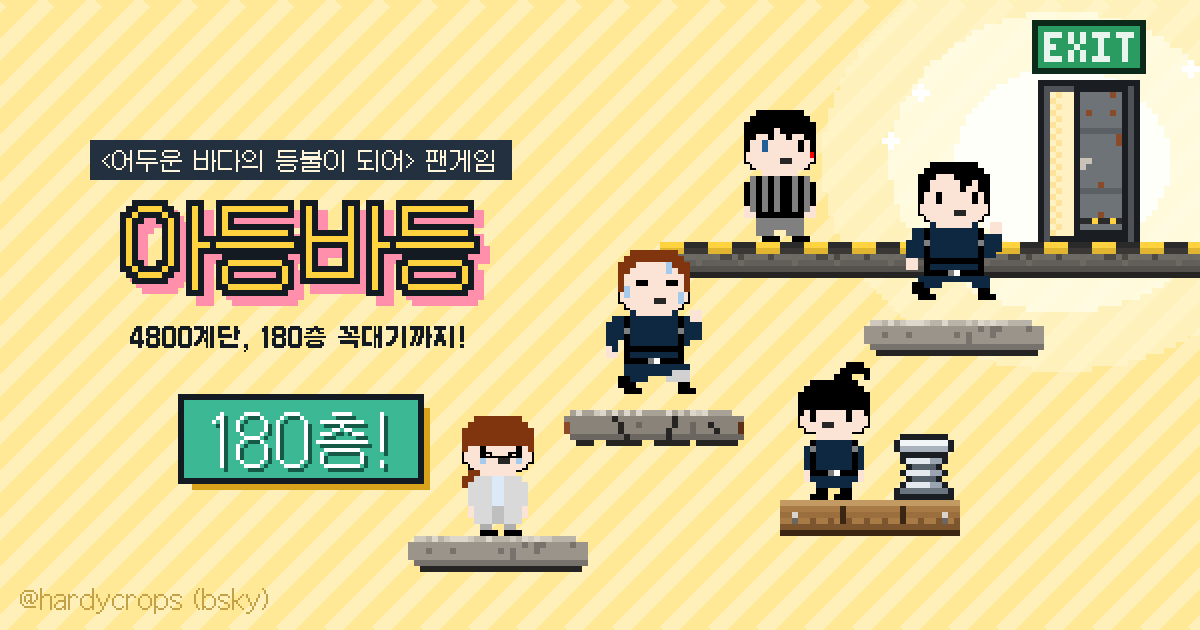
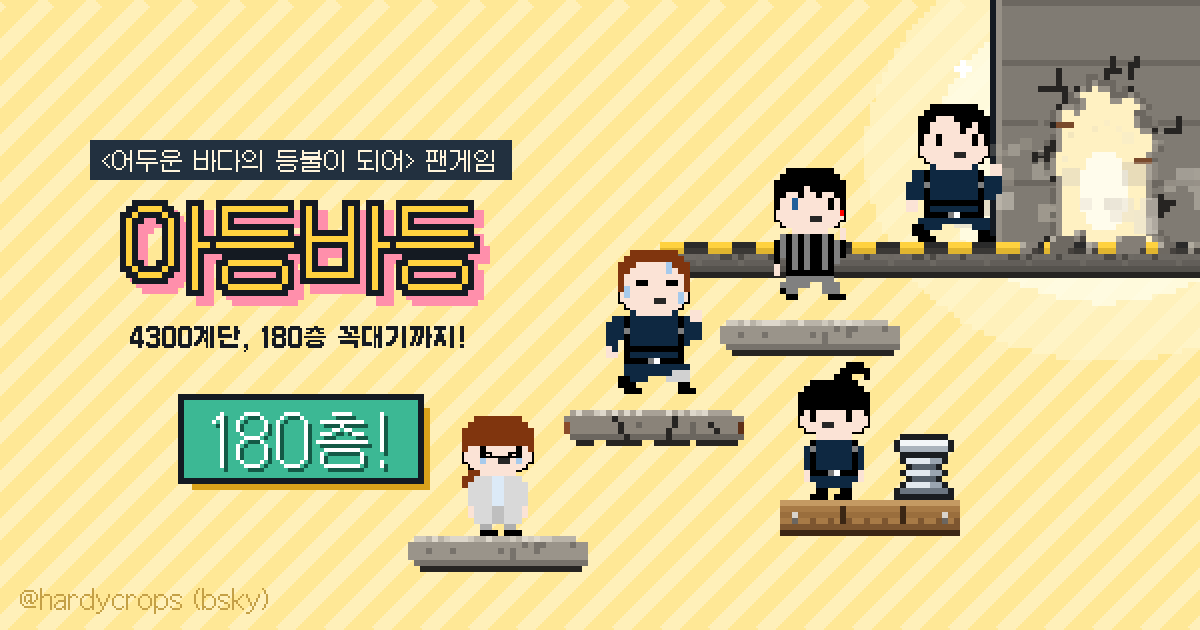
출구,계단 수정
출구,계단 수정

Changed region(s): [[0.5858, 0.0, 1.0, 0.6032], [0.9558, 0.5429, 0.9867, 0.573]]

diff --git a/gameLogic.js b/gameLogic.js
@@ -42,7 +42,7 @@ const CREDIT_URL = 'https://bsky.app/profile/hardycrops.bsky.social';
 /* ─── 게임 설정 ─── */
 const CONFIG = {
   // 규칙
-  GOAL_STAIRS: 4800,     // 원작 계단 수
+  GOAL_STAIRS: 4300,     // 원작 계단 수
   GOAL_FLOOR: 180,       // 원작 층수 (계단 수를 환산해서 표시)
   DIFFICULTY: 3,         // 기본 난이도 1~5 (설정 화면에서 선택 가능, 아래 DIFFICULTY_PRESETS)
 
@@ -88,8 +88,8 @@ const CONFIG = {
   TOAST_MS: 2500,
 
   // 꼭대기 문 (닿으면 결과 표시)
-  DOOR_W: 40.8,          // 이미지 17×27px
-  DOOR_H: 64.8,
+  DOOR_W: 62.4,          // 꼭대기 출구 = 신해량이 주먹으로 뚫은 가벽 구멍 (이미지 26×32px, 맨 아랫줄은 빈칸)
+  DOOR_H: 74.4,
   PHOTO_SIZE: 248,       // 결과 폴라로이드 사진 크기(px)
   PHOTO_VIEW_W: 400,     // 사진에 담길 최대 가로 범위(게임 좌표). 이보다 넓게는 안 찍힘 (400 = 게임 영역 전체 폭)
   WALK_FRAME_MS: 120,    // 걷기 프레임 전환 간격
@@ -111,12 +111,14 @@ const CONFIG = {
 //   PX_PER_STAIR  1계단 높이(클수록 꼭대기까지 멀어짐). 보통 4.5 ≈ 클리어 2분 30초 (이전 6 ≈ 3분 20초)
 //   GAP_MIN/MAX   계단 사이 세로 간격 (GAP_MAX는 187 미만 유지)
 //   PLAT_W        계단 너비 (이미지 30px = 72)
+// 계단 수를 4800 → 4300으로 바꾸면서 1계단 높이를 그만큼 키움 → 꼭대기 높이(GOAL_Y)·플레이 시간·난이도 그대로
+const STAIR_SCALE = 4800 / 4300;
 const DIFFICULTY_PRESETS = {
-  1: { PX_PER_STAIR: 3.75, GAP_MIN: [30, 55], GAP_MAX: [90, 125], MOVING_CHANCE: [0.03, 0.15], CRUMBLE_CHANCE: [0.05, 0.15], SPRING_CHANCE: 0.10, MOVING_SPEED: [50, 120], PLAT_W: [72, 72] },
-  2: { PX_PER_STAIR: 3.75, GAP_MIN: [30, 65], GAP_MAX: [90, 140], MOVING_CHANCE: [0.03, 0.20], CRUMBLE_CHANCE: [0.05, 0.20], SPRING_CHANCE: 0.10, MOVING_SPEED: [50, 120], PLAT_W: [72, 72] },
-  3: { PX_PER_STAIR: 4.5, GAP_MIN: [35, 75], GAP_MAX: [95, 155], MOVING_CHANCE: [0.05, 0.28], CRUMBLE_CHANCE: [0.08, 0.28], SPRING_CHANCE: 0.07, MOVING_SPEED: [60, 150], PLAT_W: [72, 57.6] },
-  4: { PX_PER_STAIR: 5.25, GAP_MIN: [40, 85], GAP_MAX: [100, 165], MOVING_CHANCE: [0.05, 0.32], CRUMBLE_CHANCE: [0.10, 0.35], SPRING_CHANCE: 0.05, MOVING_SPEED: [70, 170], PLAT_W: [67.2, 52.8] },
-  5: { PX_PER_STAIR: 6, GAP_MIN: [45, 95], GAP_MAX: [110, 172], MOVING_CHANCE: [0.06, 0.35], CRUMBLE_CHANCE: [0.12, 0.40], SPRING_CHANCE: 0.04, MOVING_SPEED: [80, 190], PLAT_W: [62.4, 43.2] },
+  1: { PX_PER_STAIR: 3.75 * STAIR_SCALE, GAP_MIN: [30, 55], GAP_MAX: [90, 125], MOVING_CHANCE: [0.03, 0.15], CRUMBLE_CHANCE: [0.05, 0.15], SPRING_CHANCE: 0.10, MOVING_SPEED: [50, 120], PLAT_W: [72, 72] },
+  2: { PX_PER_STAIR: 3.75 * STAIR_SCALE, GAP_MIN: [30, 65], GAP_MAX: [90, 140], MOVING_CHANCE: [0.03, 0.20], CRUMBLE_CHANCE: [0.05, 0.20], SPRING_CHANCE: 0.10, MOVING_SPEED: [50, 120], PLAT_W: [72, 72] },
+  3: { PX_PER_STAIR: 4.5 * STAIR_SCALE, GAP_MIN: [35, 75], GAP_MAX: [95, 155], MOVING_CHANCE: [0.05, 0.28], CRUMBLE_CHANCE: [0.08, 0.28], SPRING_CHANCE: 0.07, MOVING_SPEED: [60, 150], PLAT_W: [72, 57.6] },
+  4: { PX_PER_STAIR: 5.25 * STAIR_SCALE, GAP_MIN: [40, 85], GAP_MAX: [100, 165], MOVING_CHANCE: [0.05, 0.32], CRUMBLE_CHANCE: [0.10, 0.35], SPRING_CHANCE: 0.05, MOVING_SPEED: [70, 170], PLAT_W: [67.2, 52.8] },
+  5: { PX_PER_STAIR: 6 * STAIR_SCALE, GAP_MIN: [45, 95], GAP_MAX: [110, 172], MOVING_CHANCE: [0.06, 0.35], CRUMBLE_CHANCE: [0.12, 0.40], SPRING_CHANCE: 0.04, MOVING_SPEED: [80, 190], PLAT_W: [62.4, 43.2] },
 };
 // 6: if 모드 (STAGE 2) — 지옥과 같은 값, 일반 계단 대신 무너지는 계단 (움직이는 계단 / 무너지는 계단만)
 //    움직이는 계단은 세 번 밟으면 부러짐 (CONFIG.MOVING_HITS), 무너지는 계단에도 스프링이 붙음
@@ -149,10 +151,10 @@ applyDifficulty(CONFIG.DIFFICULTY);
 
 /* ─── 개발용 테스트 옵션 ─── */
 // 로컬(Live Server 등)에서만 동작. GitHub Pages 배포 주소에서는 무시됨
-//   ?start=4750   → 4750계단 높이에서 시작
+//   ?start=4250   → 4250계단 높이에서 시작
 //   ?god=1        → 아래로 떨어져도 죽지 않고 튀어오름
 //   ?unlock=1     → 잠긴 스테이지 전부 열기
-//   예) http://127.0.0.1:5500/index.html?start=4750&god=1&unlock=1
+//   예) http://127.0.0.1:5500/index.html?start=4250&god=1&unlock=1
 const DEV = (() => {
   const local = ['localhost', '127.0.0.1', ''].includes(location.hostname);
   const q = new URLSearchParams(location.search);
@@ -218,6 +220,7 @@ const IMG = {};
   'wall', 'wall_crack', 'wall_rebar', 'prop_stain', 'prop_crack',
   'stair_normal', 'stair_moving', 'stair_crumble', 'floor_tile', 'goal_tile',
   'spring', 'spring_on', 'door_frame', 'door_leaf', 'exit_sign', 'hydrant_door', 'hydrant_leaf',
+  'hole_back', 'hole_rubble', 'hole_cracked',
 ].forEach(name => { IMG[name] = loadImage(`images/${name}.png`); });
 
 CHARACTERS.forEach(ch => {
@@ -336,7 +339,7 @@ function stairsOf(y) {
   return Math.min(CONFIG.GOAL_STAIRS, Math.max(0, Math.floor(y / CONFIG.PX_PER_STAIR)));
 }
 
-/** 계단 수 → 원작 층수 환산 (0계단 = 1층, 4800계단 = 180층) */
+/** 계단 수 → 원작 층수 환산 (0계단 = 1층, 4300계단 = 180층) */
 function floorOf(stairs) {
   return Math.max(1, Math.ceil(stairs * CONFIG.GOAL_FLOOR / CONFIG.GOAL_STAIRS));
 }
@@ -605,6 +608,8 @@ function resetGame(fixedLayout = false) {
   state.exitT = 0;
   state.cleared = false;
   state.celebrate = false;
+  state.wallBrokenT = -1;  // 가벽이 뚫린 시각 (-1 = 아직 금만 간 상태)
+  state.shakeT = -1e9;
   state.rockets = [];
   generatePlatforms();
   updateHUD();
@@ -776,6 +781,26 @@ function spawnConfetti(x, y) {
   }
 }
 
+/** 가벽 구멍 먼지: 꼭대기가 화면에 보이는 동안 구멍 아래에서 계속 자욱하게 피어오름 */
+function spawnHoleDust() {
+  if (state.wallBrokenT < 0 || state.now < (state.holeDustT || 0) || state.particles.length > 500) return;
+  const goal = state.platforms.find(pl => pl.type === 'goal');
+  if (!goal) return;
+  const ly = toLY(goal.y);
+  if (ly < -40 || ly > viewLH + 120) return;
+  state.holeDustT = state.now + 120;
+  const colors = ['#e6e0d4', '#d2ccbf', '#bdb6a9'];
+  for (let i = 0; i < 2; i++) {
+    state.particles.push({
+      x: goal.doorX + Math.random() * (CONFIG.DOOR_W + 16) - 8,
+      y: goal.y + Math.random() * 18,
+      vx: (Math.random() - 0.5) * 36, vy: 8 + Math.random() * 26,
+      g: 3, drag: 0.6, life: 0, max: 1.4 + Math.random(), size: i ? 7.2 : 9.6,
+      color: colors[Math.floor(Math.random() * colors.length)], a: 0.5,
+    });
+  }
+}
+
 function updateParticles(dt) {
   for (const pt of state.particles) {
     pt.life += dt;
@@ -818,10 +843,9 @@ function update(dt) {
     }
     const doneT = state.exitT + state.followers.length * CONFIG.FOLLOW_DELAY_MS + CONFIG.EXIT_SLIDE_MS + 300;
     if (state.phase === 'playing' && state.now >= doneT) endGame('clear');
-    if (state.celebrate) {  // 문 들어가는 중 / 결과 화면 뒤에서도 계속 터짐
-      updateCelebration(dt);
-      updateParticles(dt);
-    }
+    if (state.celebrate) updateCelebration(dt);  // 구멍 들어가는 중 / 결과 화면 뒤에서도 계속 터짐
+    spawnHoleDust();
+    updateParticles(dt);  // 먼지도 계속 피어오름
     updateHUD();
     return;
   }
@@ -922,6 +946,7 @@ function update(dt) {
   while (state.history.length > 2 && state.history[1].t < keepFrom) state.history.shift();
 
   updateCelebration(dt);
+  spawnHoleDust();
   updateParticles(dt);
 
   // 지나간 계단 정리 + 새 계단 생성
@@ -1056,7 +1081,7 @@ function drawHydrant() {
 function drawParticles() {
   for (const pt of state.particles) {
     const k = pt.life / pt.max;
-    ctx.globalAlpha = pt.drag ? Math.min(1, 1.6 * (1 - k)) : 1 - k;
+    ctx.globalAlpha = (pt.a ?? 1) * (pt.drag ? Math.min(1, 1.6 * (1 - k)) : 1 - k);  // a: 최대 진하기 (구멍 먼지는 옅게)
     ctx.fillStyle = pt.color;
     const size = pt.drag ? pt.size * (1 - k * 0.5) : pt.size;
     ctx.fillRect(Math.round(pt.x - size / 2), Math.round(toLY(pt.y) - size / 2), size, size);
@@ -1083,8 +1108,8 @@ function drawAbyss() {
 /** 문 기하 정보: 문틀 안쪽(빛) 범위, 문짝이 붙는 쪽(벽 쪽) */
 function doorGeom(doorX) {
   const PIX = CONFIG.PIX;
-  const innerL = doorX + 2 * PIX;
-  const innerR = doorX + CONFIG.DOOR_W - 2 * PIX;
+  const innerL = doorX + 5 * PIX;   // 구멍 안쪽(빛) 범위
+  const innerR = doorX + CONFIG.DOOR_W - 5 * PIX;
   const hingeRight = doorX + CONFIG.DOOR_W / 2 > CONFIG.GAME_W / 2;  // 오른쪽 문이면 문짝은 오른쪽(벽 쪽)
   return { innerL, innerR, hingeRight };
 }
@@ -1095,55 +1120,50 @@ function doorOpenAmount() {
   return CONFIG.DOOR_OPEN + (CONFIG.DOOR_OPEN_EXIT - CONFIG.DOOR_OPEN) * k;
 }
 
-/** 꼭대기 문 (뒤쪽): 은은한 빛 + 문틀 너머 빛 + EXIT 표지판 */
+/** 꼭대기 출구 (뒤쪽): 가벽 구멍에서 새어 나오는 빛 + 구멍 + 바닥 잔해
+ *  원작: 180층에서 문이 아니라 신해량이 주먹으로 가벽을 뚫고 그 구멍으로 나감 */
 function drawDoorBack(x, groundLY) {
+  const PIX = CONFIG.PIX;
   const w = CONFIG.DOOR_W;
-  const h = CONFIG.DOOR_H;
-  const top = groundLY - h;
-  const { innerL, innerR, hingeRight } = doorGeom(x);
+  const top = groundLY - 31 * PIX;   // 이미지 맨 아랫줄(빈칸)이 바닥에 걸치게
+  const cx = x + w / 2;
 
-  // 문 틈으로 새어 나오는 따뜻한 빛 (천천히 숨쉬듯)
   const breathe = 0.75 + 0.25 * Math.sin(state.now / 900);
-  const open = 1 - doorOpenAmount();
-  const gapCX = hingeRight ? innerL + (innerR - innerL) * open / 2 : innerR - (innerR - innerL) * open / 2;
-  const glow = ctx.createRadialGradient(gapCX, top + h * 0.55, 4, gapCX, top + h * 0.55, 110);
-  glow.addColorStop(0, `rgba(255, 228, 160, ${(0.22 + open * 0.25) * breathe})`);
+  const cy = top + CONFIG.DOOR_H * 0.6;
+
+  // 뚫리기 전: 금 간 가벽 + 틈새로 아주 조금 새는 빛
+  if (state.wallBrokenT < 0) {
+    const seam = ctx.createRadialGradient(cx, top + 17 * PIX, 2, cx, top + 17 * PIX, 50);
+    seam.addColorStop(0, `rgba(255, 228, 160, ${0.18 * breathe})`);
+    seam.addColorStop(1, 'rgba(255, 228, 160, 0)');
+    ctx.fillStyle = seam;
+    ctx.fillRect(cx - 50, top - 20, 100, CONFIG.DOOR_H + 40);
+    drawImg(IMG.hole_cracked, x, top, w, 32 * PIX, '#6e6a63');
+    return;
+  }
+
+  // 뚫린 뒤: 구멍 너머 따뜻한 빛 (뚫리는 순간 확 밝았다가 천천히 숨쉬듯)
+  const flash = Math.max(0, 1 - (state.now - state.wallBrokenT) / 500);
+  const glow = ctx.createRadialGradient(cx, cy, 6, cx, cy, 120);
+  glow.addColorStop(0, `rgba(255, 228, 160, ${Math.min(0.95, 0.42 * breathe + flash * 0.5)})`);
   glow.addColorStop(1, 'rgba(255, 228, 160, 0)');
   ctx.fillStyle = glow;
-  ctx.fillRect(gapCX - 110, top - 60, 220, h + 120);
+  ctx.fillRect(cx - 120, top - 60, 240, CONFIG.DOOR_H + 120);
 
-  // 바닥에 비친 빛
-  const spillDir = hingeRight ? -1 : 1;
-  const spill = ctx.createLinearGradient(gapCX, 0, gapCX + spillDir * 90, 0);
-  spill.addColorStop(0, `rgba(255, 236, 180, ${0.3 * breathe})`);
+  // 바닥에 비친 빛 (양쪽으로)
+  const spill = ctx.createLinearGradient(cx - 100, 0, cx + 100, 0);
+  spill.addColorStop(0, 'rgba(255, 236, 180, 0)');
+  spill.addColorStop(0.5, `rgba(255, 236, 180, ${0.32 * breathe})`);
   spill.addColorStop(1, 'rgba(255, 236, 180, 0)');
   ctx.fillStyle = spill;
-  ctx.fillRect(Math.min(gapCX, gapCX + spillDir * 90), groundLY - 3, 90, 5);
+  ctx.fillRect(cx - 100, groundLY - 3, 200, 5);
 
-  drawImg(IMG.door_frame, x, top, w, h, '#fff1c2');
-
-  // 초록 EXIT 표지판
-  const sw = 19 * CONFIG.PIX;
-  const sh = 9 * CONFIG.PIX;
-  const sx = x + w / 2 - sw / 2;
-  const sy = top - sh - 8;
-  const sg = ctx.createRadialGradient(sx + sw / 2, sy + sh / 2, 4, sx + sw / 2, sy + sh / 2, 60);
-  sg.addColorStop(0, 'rgba(43, 212, 125, 0.25)');
-  sg.addColorStop(1, 'rgba(43, 212, 125, 0)');
-  ctx.fillStyle = sg;
-  ctx.fillRect(sx - 60, sy - 60, sw + 120, sh + 120);
-  drawImg(IMG.exit_sign, sx, sy, sw, sh, '#2bd47d');
+  drawImg(IMG.hole_back, x, top, w, 32 * PIX, '#fff1c2');
+  drawImg(IMG.hole_rubble, x - 5 * PIX, groundLY - 4 * PIX, 36 * PIX, 6 * PIX);
 }
 
-/** 꼭대기 문 (앞쪽): 살짝 열린 문짝. 캐릭터보다 위에 그려서 지나가면 문 뒤로 사라짐 */
-function drawDoorFront(x, groundLY) {
-  const PIX = CONFIG.PIX;
-  const { innerL, innerR, hingeRight } = doorGeom(x);
-  const fullW = innerR - innerL;
-  const lw = Math.max(PIX, fullW * doorOpenAmount());
-  const lx = hingeRight ? innerR - lw : innerL;
-  drawImg(IMG.door_leaf, lx, groundLY - CONFIG.DOOR_H + PIX, lw, 25 * PIX, '#6e7378');
-}
+/** 꼭대기 출구 (앞쪽): 구멍은 앞을 가리는 게 없음 (캐릭터는 구멍 가운데에서 잘려서 사라짐) */
+function drawDoorFront() {}
 
 const STAIR_IMG = {
   normal: 'stair_normal',
@@ -1352,7 +1372,11 @@ function renderScene() {
   drawBackdrop();
 
   // 게임 영역 좌표계로 전환 + 영역 밖은 잘라냄
-  ctx.setTransform(dpr * scale, 0, 0, dpr * scale, dpr * offX, 0);
+  // 벽 뚫릴 때 화면이 잠깐 흔들림
+  const sk = Math.max(0, 1 - (state.now - state.shakeT) / 350);
+  const shakeX = sk ? Math.sin(state.now / 14) * 4 * sk * scale : 0;
+  const shakeY = sk ? Math.cos(state.now / 11) * 3 * sk * scale : 0;
+  ctx.setTransform(dpr * scale, 0, 0, dpr * scale, dpr * (offX + shakeX), dpr * shakeY);
   ctx.imageSmoothingEnabled = false;  // 픽셀아트 선명하게
   ctx.save();
   ctx.beginPath();
@@ -1462,6 +1486,7 @@ const SFX = {
   jump:    [{ wave: 'square', from: 320, to: 640, time: 0.08, vol: 0.12 }],
   spring:  [{ wave: 'square', from: 180, to: 900, time: 0.32, vol: 0.14, wobble: 40 }],
   land:    [{ wave: 'triangle', from: 160, to: 50, time: 0.12, vol: 0.3 }, { wave: 'noise', from: 0, to: 0, time: 0.08, vol: 0.12, cut: 600 }],
+  smash:   [{ wave: 'noise', from: 0, to: 0, time: 0.7, vol: 0.32, cut: 1800 }, { wave: 'triangle', from: 120, to: 35, time: 0.5, vol: 0.5 }, { wave: 'noise', from: 0, to: 0, time: 0.25, vol: 0.2, cut: 3500, delay: 0.05 }],
   crumble: [{ wave: 'noise', from: 0, to: 0, time: 0.3, vol: 0.22, cut: 1400 }, { wave: 'square', from: 140, to: 60, time: 0.18, vol: 0.06 }],
   floor:   [{ wave: 'square', from: 660, to: 660, time: 0.1, vol: 0.12 }, { wave: 'square', from: 990, to: 990, time: 0.18, vol: 0.12, delay: 0.1 }],
   summit:  [{ wave: 'square', from: 523, to: 523, time: 0.1, vol: 0.12 }, { wave: 'square', from: 659, to: 659, time: 0.1, vol: 0.12, delay: 0.1 }, { wave: 'square', from: 784, to: 784, time: 0.1, vol: 0.12, delay: 0.2 }, { wave: 'square', from: 1046, to: 1046, time: 0.3, vol: 0.12, delay: 0.3 }],
@@ -2300,16 +2325,43 @@ function startGame() {
 }
 
 /* ─── 꼭대기 ─── */
+/** 가벽 뚫기: 쾅! + 먼지 크게 터짐 + 콘크리트 조각 + 화면 흔들림 → 구멍 */
+function breakWall(plat) {
+  state.wallBrokenT = state.now;
+  state.shakeT = state.now;
+  sound.play('smash');
+  const cx = plat.doorX + CONFIG.DOOR_W / 2;
+  const dust = ['#e6e0d4', '#d2ccbf', '#bdb6a9'];
+  for (let i = 0; i < 44; i++) {
+    state.particles.push({
+      x: cx + (Math.random() - 0.5) * CONFIG.DOOR_W, y: plat.y + Math.random() * CONFIG.DOOR_H,
+      vx: (Math.random() - 0.5) * 520, vy: -40 + Math.random() * 220,
+      g: -120, drag: 3, life: 0, max: 1 + Math.random() * 0.9, size: i % 3 ? 9.6 : 12,
+      color: dust[i % 3], a: 0.8,
+    });
+  }
+  const chunks = ['#77726b', '#5c5853', '#969086'];
+  for (let i = 0; i < 18; i++) {
+    state.particles.push({
+      x: cx + (Math.random() - 0.5) * CONFIG.DOOR_W * 0.6, y: plat.y + CONFIG.DOOR_H * (0.3 + Math.random() * 0.5),
+      vx: (Math.random() - 0.5) * 400, vy: 80 + Math.random() * 260,
+      g: -CONFIG.GRAVITY, life: 0, max: 0.8 + Math.random() * 0.6, size: i % 3 ? 4.8 : 7.2,
+      color: chunks[i % 3],
+    });
+  }
+}
+
 function reachSummit(plat) {
   state.summit = true;
   state.summitTimeMs = Math.round(state.elapsed);
   state.door = { x: plat.doorX, y: plat.y };
+  breakWall(plat);
   if (CONFIG.IF_MODE) {
     showToast('아니 이걸 한다고?', 4000);
     sound.play('summit');
     startCelebration();
   } else {
-    showToast('꼭대기 도착! 문으로 가자', CONFIG.TOAST_MS);
+    showToast('벽을 뚫고 나가자!', CONFIG.TOAST_MS);
     sound.play('summit');
   }
 }
@@ -2324,7 +2376,7 @@ function checkDoor() {
     // 메인캐릭터부터 문 밖으로 미끄러져 나감 → 따라오는 캐릭터도 같은 지점에 도착하는 순서대로 나감
     const { innerL, innerR } = doorGeom(d.x);
     const dir = p.x < (innerL + innerR) / 2 ? 1 : -1;   // 다가온 방향으로 계속 진행
-    const clipX = dir > 0 ? innerR : innerL;              // 반대편 문틀 안쪽 끝
+    const clipX = (innerL + innerR) / 2 + dir * CONFIG.PIX * 2;  // 구멍 가운데 → 빛 속으로 들어가며 사라짐
     state.exitPath = {
       x0: p.x,
       y0: p.y,
@@ -2333,7 +2385,7 @@ function checkDoor() {
       endX: clipX + dir * (CONFIG.CHAR_W / 2 + 2),
     };
     state.exiting = true;
-    sound.play('door');
+    sound.play('crumble');
     state.exitShotTaken = false;
     state.exitT = state.now;
     state.cleared = true;

diff --git a/index.html b/index.html
@@ -7,14 +7,14 @@
       content="width=device-width, initial-scale=1.0, maximum-scale=1.0, user-scalable=no"
     />
     <title>아등바등</title>
-    <meta name="description" content="&lt;어두운 바다의 등불이 되어&gt; 팬게임. 4800계단, 180층 꼭대기까지!" />
+    <meta name="description" content="&lt;어두운 바다의 등불이 되어&gt; 팬게임. 4300계단, 180층 꼭대기까지!" />
 
     <!-- 링크 미리보기 (블루스카이·카톡·X 등에 주소를 붙였을 때 나오는 제목·그림) -->
     <!-- og.png는 index.html 옆(저장소 맨 위)에 둠. 이미지 주소는 전체 주소여야 함 -->
     <meta property="og:type" content="website" />
     <meta property="og:url" content="https://nookyyong.github.io/jjumjam/" />
     <meta property="og:title" content="아등바등" />
-    <meta property="og:description" content="&lt;어두운 바다의 등불이 되어&gt; 팬게임. 4800계단, 180층 꼭대기까지!" />
+    <meta property="og:description" content="&lt;어두운 바다의 등불이 되어&gt; 팬게임. 4300계단, 180층 꼭대기까지!" />
     <meta property="og:image" content="https://nookyyong.github.io/jjumjam/og.png" />
     <meta property="og:image:width" content="1200" />
     <meta property="og:image:height" content="630" />
@@ -36,7 +36,7 @@
         </div>
         <div class="hud_item wide px_box">
           <span class="hud_label">계단</span>
-          <span class="hud_value" id="stairsDisplay">0/4800</span>
+          <span class="hud_value" id="stairsDisplay">0/4300</span>
         </div>
         <div class="hud_item px_box">
           <span class="hud_label">시간</span>

diff --git a/style.css b/style.css
@@ -1286,3 +1286,13 @@ input {
 .credit_link:active {
   color: var(--pink_dark);
 }
+
+/* 시작 화면 오른쪽 아래 구석 제작자 표기 (흐리게, 누를 수 없음) */
+.start_credit {
+  position: fixed;
+  right: 12px;
+  bottom: 10px;
+  font-size: 11px;
+  color: rgba(255, 244, 220, 0.4);
+  pointer-events: none;
+}
